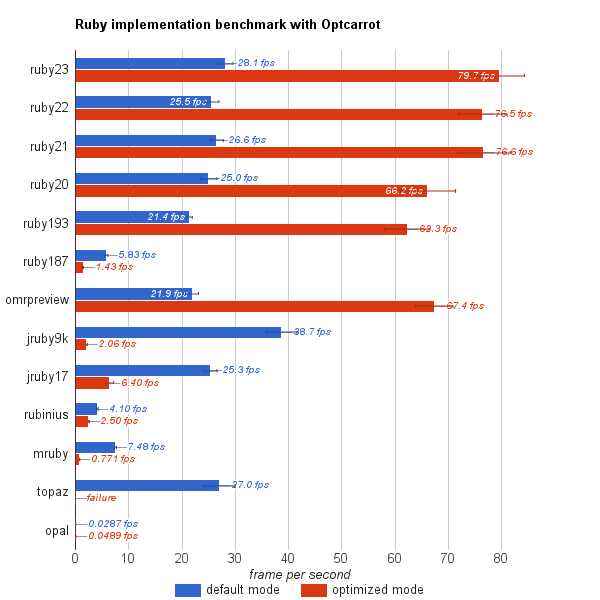
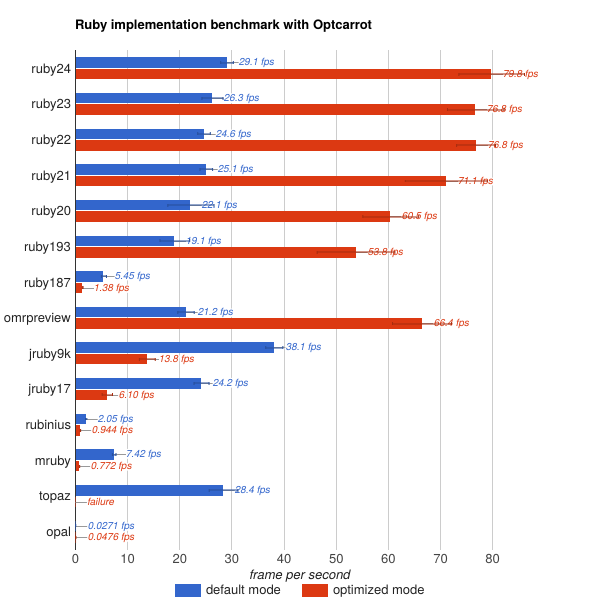
Update the benchmark result

diff --git a/tools/view-chart.rb b/tools/view-chart.rb
@@ -24,7 +24,7 @@ csv.each do |row|
 end
 
 data = []
-%w(ruby23 ruby22 ruby21 ruby20 ruby193 ruby187 omrpreview jruby9k jruby17 rubinius mruby topaz opal).each do |name|
+%w(ruby24 ruby23 ruby22 ruby21 ruby20 ruby193 ruby187 omrpreview jruby9k jruby17 rubinius mruby topaz opal).each do |name|
   row = table[name]
   data << [name.dump, *(row["default"] || row["opt-none"]), *(row["opt-all"] || [0, "null", "null", "failure".dump])]
 end

diff --git a/doc/benchmark.md b/doc/benchmark.md
@@ -4,20 +4,21 @@
 
 ## Experimental conditions
 
-* Core i7 4500U (1.80GHz) / Ubuntu 15.10
+* Core i7 4500U (1.80GHz) / Ubuntu 16.10
 * Command: `ruby -v -Ilib -r./tools/shim bin/optcarrot --benchmark examples/Lan_Master.nes`
-    * This runs the first 180 frames (three seconds), and prints the fps of the last ten frames.
-    * `--benchmark` mode implies no GUI, so GUI overhead is not included. 
-    * [`tools/shim.rb`](../tools/shim.rb) is required for incompatibility of Ruby implementations.
+  * This runs the first 180 frames (three seconds), and prints the fps of the last ten frames.
+  * `--benchmark` mode implies no GUI, so GUI overhead is not included. 
+  * [`tools/shim.rb`](../tools/shim.rb) is required for incompatibility of Ruby implementations.
   * `--opt` option is added for the optimized mode.
 * Measured fps 10 times for each, and calculated the average over the runs.
 * The error bars represent the standard deviation.
 
 ## Ruby implementations
 
-* ruby23: `ruby 2.3.1p112 (2016-04-26 revision 54768) [x86_64-linux]`
-* ruby22: `ruby 2.2.5p319 (2016-04-26 revision 54774) [x86_64-linux]`
-* ruby21: `ruby 2.1.9p490 (2016-03-30 revision 54437) [x86_64-linux]`
+* ruby24: `ruby 2.4.0p0 (2016-12-24 revision 57164) [x86_64-linux]`
+* ruby23: `ruby 2.3.3p222 (2016-11-21 revision 56859) [x86_64-linux]`
+* ruby22: `ruby 2.2.6p396 (2016-11-15 revision 56800) [x86_64-linux]`
+* ruby21: `ruby 2.1.10p492 (2016-04-01 revision 54464) [x86_64-linux]`
 * ruby20: `ruby 2.0.0p648 (2015-12-16 revision 53162) [x86_64-linux]`
 * ruby193: `ruby 1.9.3p551 (2014-11-13 revision 48407) [x86_64-linux]`
 * ruby187: `ruby 1.8.7 (2013-06-27 patchlevel 374) [x86_64-linux]`
@@ -25,12 +26,12 @@
 * omrpreview: `ruby 2.2.5p285 (Eclipse OMR Preview r1) (2016-03-29) [x86_64-linux]`
   * `OMR_JIT_OPTIONS='-Xjit'` is specified.
 
-* jruby9k: `jruby 9.1.0.0 (2.3.0) 2016-05-02 a633c63 Java HotSpot(TM) 64-Bit Server VM 25.91-b14 on 1.8.0_91-b14 +indy +jit [linux-x86_64]`
+* jruby9k: `jruby 9.1.7.0 (2.3.1) 2017-01-11 68056ae Java HotSpot(TM) 64-Bit Server VM 25.121-b13 on 1.8.0_121-b13 +indy +jit [linux-x86_64]
 
-* jruby17: `jruby 1.7.25 (1.9.3p551) 2016-04-13 867cb81 on Java HotSpot(TM) 64-Bit Server VM 1.8.0_91-b14 +indy +jit [linux-amd64]`
+* jruby17: `jruby 1.7.25 (1.9.3p551) 2016-04-13 867cb81 on Java HotSpot(TM) 64-Bit Server VM 1.8.0_121-b13 +indy +jit [linux-amd64]`
   * `--server -Xcompile.invokedynamic=true` is specified.
 
-* rubinius: `rubinius 3.33 (2.2.2 db6f477e 2016-05-23 3.6.0) [x86_64-linux-gnu]`
+* rubinius: `rubinius 3.72 (2.3.1 6d56979c 2017-02-21 3.8.0) [x86_64-linux-gnu]`
 
 * mruby: `mruby 1.2.0 (2015-11-17)`
   * Patched so that `Fixnum#/` returns an Integer instead of Float.
@@ -38,7 +39,7 @@
 * topaz: `topaz (ruby-1.9.3p125) (git rev 019daf0) [x86_64-linux]`
   * Failed to run the optimized mode maybe because the generated core is so large.
 
-* opal: `Opal v0.10.0.beta3`
+* opal: `Opal v0.10.3`
   * Failed to run the default mode because of lack of Fiber.
 
 See [`tools/run-benchmark.rb`](../tools/run-benchmark.rb) for the actual commands.
@@ -93,7 +94,7 @@ This script will build docker images for some Ruby implementations, run a benchm
 
 Note that it will take a few hours.  If you want to specify target, do:
 
-    $ ruby tools/run-benchmark.rb ruby23 -m all
+    $ ruby tools/run-benchmark.rb ruby24 -m all
 
 If you want to try [rubyomr-preview][omr], you need to load its docker image before running the benchmark.
 
